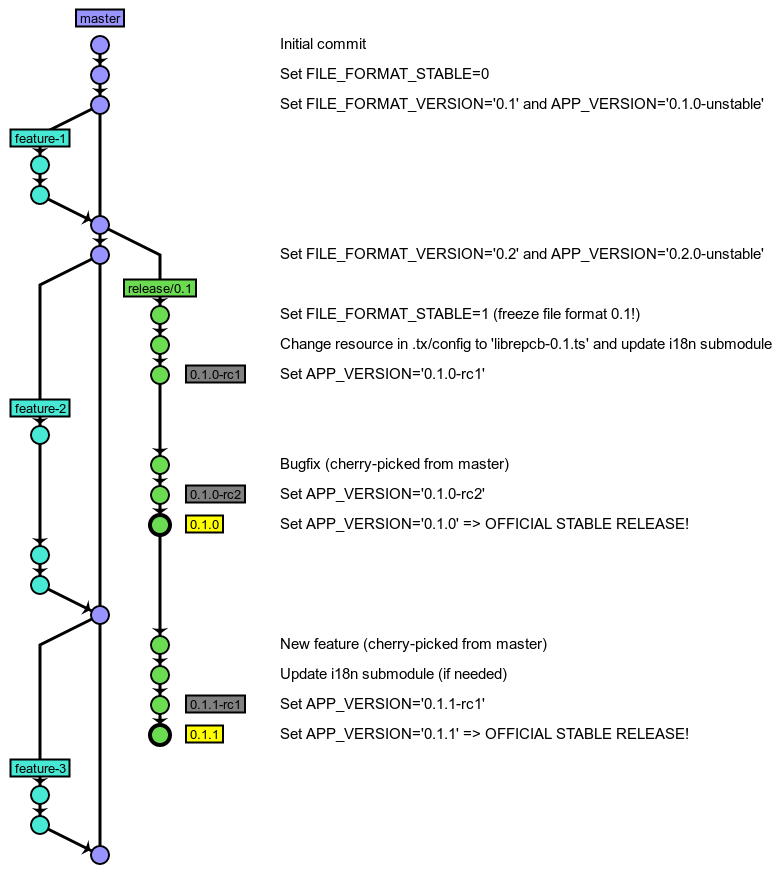
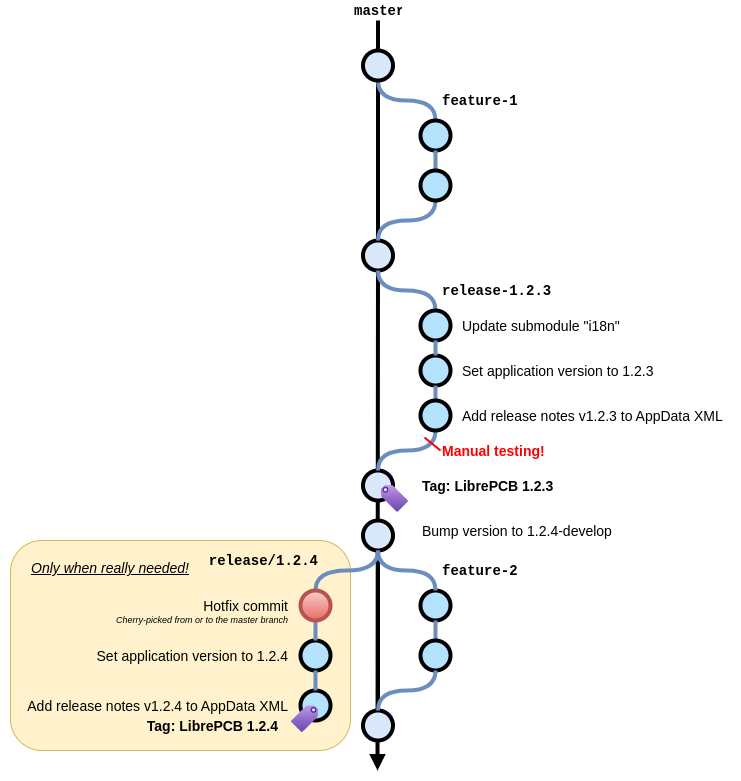
Doxygen: Simplify development & release workflow

Changed region(s): [[0.0, 0.0, 0.9933, 0.9834]]

diff --git a/dev/doxygen/pages/release_workflow.md b/dev/doxygen/pages/release_workflow.md
@@ -42,70 +42,65 @@ Whether the file format is stable or not is controlled by the define
 # Git Branches {#doc_release_workflow_branches}
 
 The continuous development happens on feature/bugfix branches (or pull requests),
-which are merged into the `master` branch as soon as they are finished. As new
-features sometimes also introduce file format changes, the `master` branch must
-always be considered to contain the (unstable) *next* major version of the
-application. For example if the last stable release was version "2.3.4", the
-`master` must immediately be considered as version "3.0.0-unstable".
+which are merged into the `master` branch as soon as they are finished. However,
+to reduce the complexity of the development workflow, we only accept file format
+changes on the `master` branch if we're working on the next major release! So
+if the next release is planned to be a minor or bugfix release, no file format
+changes shall be merged into `master`. In practice this means that for example
+every 1-2 years there is a window of a few months where file format changes
+are accepted.
 
-This also means that on the `master` branch we cannot provide updates for
-already released versions. So we have to provide such updates in release
-branches. For every major version we create a release branch, which is then used
-for *any* update for that major version. For example on the branch `release/2`
-we would provide the releases "2.0", "2.0.1" (bugfix) and "2.1.0" (new feature).
+Although it is a bit awkward to hold back new features affecting the file
+format, this is much more efficient. We learned in the past that accepting
+file format changes at any time causes a lot of overhead and complexity.
+
+![Development Cycle](development_cycle_diagram.png)
+
+Generally, releases shall be created directly on the `master` branch, i.e.
+the release tag points to a commit on `master`. However, if an urgent bugfix
+release is required but minor features implemented since the last release
+shall not be released yet, it is possible to create a release branch based
+on the last release with the new tag pointing to that release branch.
 
 ![Git Branches](release_workflow_diagram.png)
 
-Features and bugfixes which do not affect the file format may be cherry-picked
-from `master` to release branches. This way we can publish updates for the last
-officially released application version while the next major version is still in
-development. Generally we do *not* maintain older releases than the last stable
-release because this would be too much effort. So for example as soon as the
-version "0.2.0" is released, the version "0.1.x" is no longer maintained.
+Note that no release other than the last one will be maintained. For example
+after releasing LibrePCB 1.2.3, no bugfix releases will be created for any
+previous release.
 
 
 # Git Tags
 
 For every officially released version we create a GPG signed Git tag on the
-corresponding release branch. The tag name contains all three numbers of the
+corresponding release commit. The tag name contains all three numbers of the
 application's version number. Examples: "0.1.0-rc1", "0.1.0", "1.2.0", "1.2.1"
 
 
 # Warning in Unstable Versions {#doc_release_workflow_warning}
 
-Because (at least) the `master` branch is always unstable, it's very dangerous
-for end users to work productively with this version (it could break projects
-etc.!). So we should warn users in that situation.
+Because (at least) the `master` branch is unstable while working on the next
+major release, it's very dangerous for end users to work productively with
+this version (it could break projects etc.!). So we should warn users in
+that situation.
 
 This is done by displaying warnings in the application's GUI. Their visibility
 is controlled by the preprocessor define `FILE_FORMAT_STABLE`. It's set to `0`
-(warning visible) on all branches, except on release branches where it's set to
-`1` (warning disabled). As release branches always have a stable file format, it
-should be safe to use *any* state of a release branch (even if not officially
-released).
+(warning visible) while working on the next major release, otherwise to `1`
+(warning disabled).
 
 
 # Translations {#doc_release_workflow_translations}
 
-We use [Transifex] to translate LibrePCB into other languages. As Transifex
-doesn't have support for branches, we use a separate [resource] for each major
-application version. The translations for the `master` branch are contained in
-the resource `librepcb.ts`, while translations for releases are contained in
-resources like `librepcb-0.1.ts`.
-
-Translations are automatically checked into the repository
-[LibrePCB/librepcb-i18n](https://github.com/LibrePCB/librepcb-i18n). The
-`master` branch contains translations of the resource `librepcb.ts`, while
-translations of resources for releases are available on branches for the
-corresponding releases (e.g. `release/0.1` for `librepcb-0.1.ts`).
+We use [Transifex] to translate LibrePCB into other languages. The resource
+`librepcb.ts` always contains the strings from the latest commit on the
+`master` branch. Translations are automatically checked into the repository
+[LibrePCB/librepcb-i18n](https://github.com/LibrePCB/librepcb-i18n).
 
 The `librepcb-i18n` repository is included as a submodule in the main
-repository. On the `master` branch, the submodule points to a commit which does
-not contain any translation files because translations change very often, so we
-would have to update the submodule very often too (avoid commit spam). But on
-release branches, the submodule points to the translations for the corresponding
-release so they are always available when building official releases (important
-for packagers).
+repository. Because translations change very often (and thus we would have to
+update the submodule very often), the submodule is not regularly updated
+(to avoid commit spam). It gets updated only when preparing a new release
+(important for packagers to get the correct translations).
 
 
 # Changelog {#doc_release_workflow_changelog}
@@ -128,56 +123,60 @@ into the release branches, package maintainers don't have to care about
 downloading translations from [Transifex].
 
 
-# Release Checklist {#doc_release_workflow_checklist}
+# Checklists {#doc_release_workflow_checklist}
 
-## Prepare New Major Release
+## Start Working On A New Major Release
 
-1. Review the file format of the current `master` branch very carefully. We must
-   be sure that the file format is completely stable *before* creating a release
-   branch.
-2. On [Transifex], create a new [resource] by copying `librepcb.ts`.
-3. Create a new release branch (e.g. `release/0.1`) from the current `master`.
-4. On `master`, add a commit to increment the application's major version and
-   the file format version.
-5. On the release branch, set the define `FILE_FORMAT_STABLE` to `1` and commit.
-6. On the release branch, change resource in `.tx/config` to the corresponding
-   release (e.g. 'librepcb-0.1.ts') and commit.
+1. On `master`, add a commit to increment the application's major version and
+   the file format version. In addition, set the define `FILE_FORMAT_STABLE`
+   to `1`.
 
 ## Create Release
 
-1. Make sure CI uses the latest Qt version. If necessary, update CI on `master`
-   first and test the artifacts before starting with the release procedure.
-2. Cherry-pick relevant commits from `master` to the release branch (e.g.
-   `release/0.1`). For minor releases, only pick commits which do not modify
-   the file format!
+### Preparations
+
+1. Only proceed if the file format is freezed and `FILE_FORMAT_STABLE`
+   is set to `1`!
+2. Make sure CI uses the latest Qt version. If necessary, update CI first and
+   test the artifacts before proceeding with the release procedure.
 3. Make sure all submodules point to persistent commits (commits could be
    garbage collected when rebasing a branch, this would break the checkout of
    older releases!). If necessary, add tags to the submodule repositories to
    avoid garbage collection of these commits.
-4. Update the `i18n` submodule and commit.
-5. Update the define `LIBREPCB_APP_VERSION` in `CMakeLists.txt` (e.g.
-   "0.1.0-rc1" or "0.1.1") and commit.
-6. Update the installer version in `ci/build_installer.sh` (e.g. "0.1.0-1"),
-   commit. Note: Always append a dash followed by a number!
-7. Update the releases section in
+
+### Release
+
+1. Create a new (temporary) branch, called e.g. `release`.
+2. Update the `i18n` submodule and commit.
+3. Update the define `LIBREPCB_APP_VERSION` in `CMakeLists.txt` (e.g.
+   "0.1.0-rc1" or "0.1.1"). If needed, also update the installer version in
+   `ci/build_installer.sh` (e.g. "0.1.0-1") and commit everything.
+   **Note: Always append a dash followed by a number to the installer version!**
+4. Update the releases section in
    `share/metainfo/org.librepcb.LibrePCB.appdata.xml`, commit and push.
-8. Check if CI is successful and test the artifacts generated by CI.
-9. Important: Only preceed with the following steps if you have a lot of time
+5. Open a pull request (optional).
+6. Check if CI is successful and test the artifacts generated by CI.
+7. If everything looks good, merge the branch into `master` (either by merging
+   the PR or with fast-forward).
+8. Important: Only preceed with the following steps if you have a lot of time
    to do the rest of the release procedure in one chunk!
-10. Publish the artifacts at https://download.librepcb.org/releases/.
-11. Test the official releases again, this time including the installer.
-12. If everything works properly, add and push a new tag with the name equal to
-    the value of `LIBREPCB_APP_VERSION` (e.g. "0.1.0-rc1"). Use the message
+9. Publish the artifacts at https://download.librepcb.org/releases/.
+10. Test the official releases again, this time including the installer.
+11. If everything works properly, Add and push a new tag with the name equal
+    to the value of `LIBREPCB_APP_VERSION` (e.g. "0.1.0-rc1"). Use the message
     "LibrePCB <LIBREPCB_APP_VERSION>". Keep in mind that the tag must be
     signed and the version number must always have three numbers (i.e. "0.1.0"
     instead of "0.1")!
-13. Cherry-pick the `org.librepcb.LibrePCB.appdata.xml` commit to `master`.
-14. For major releases, bump application and installer version on `master`.
-15. Update website/documentation download links and publish blog post
-    containing the changelog.
-16. Add tag description to [GitHub Releases], including a link to the blog post.
-17. Notify users through Patreon, Twitter, ...
-18. Start updating distribution packages (Flatpak, Snap, Arch, NixOS, ...).
+12. Bump the application patch version and the installer version on `master`
+    (e.g. to "1.2.3-unstable" after releasing "1.2.2"), commit and push.
+
+### After The Release
+
+1. Update website/documentation download links and publish blog post
+   containing the changelog.
+2. Add tag description to [GitHub Releases], including a link to the blog post.
+3. Notify users through Patreon, Twitter, ...
+4. Start updating distribution packages (Flatpak, Snap, Arch, NixOS, ...).
 
 
 [semantic versioning]: https://semver.org/

diff --git a/CONTRIBUTING.md b/CONTRIBUTING.md
@@ -9,7 +9,9 @@ there are many other ways how to contribute to the LibrePCB project, see
 ## Notes
 
 - **Before spending lots of time on something, please ask for feedback on
-  your idea first!**
+  your idea first!** Also note that we do not accept major changes
+  (e.g. changes affecting the file format) at any time, see details in our
+  [development workflow documentation](https://developers.librepcb.org/da/dbc/doc_release_workflow.html#doc_release_workflow_branches).
 - Please search issues and pull requests before adding something new to avoid duplicating efforts and conversations.
 - Issues which are considered to be easy to solve are marked with the label `easy`:
   [Browse all easy issues](https://github.com/LibrePCB/LibrePCB/labels/easy).
